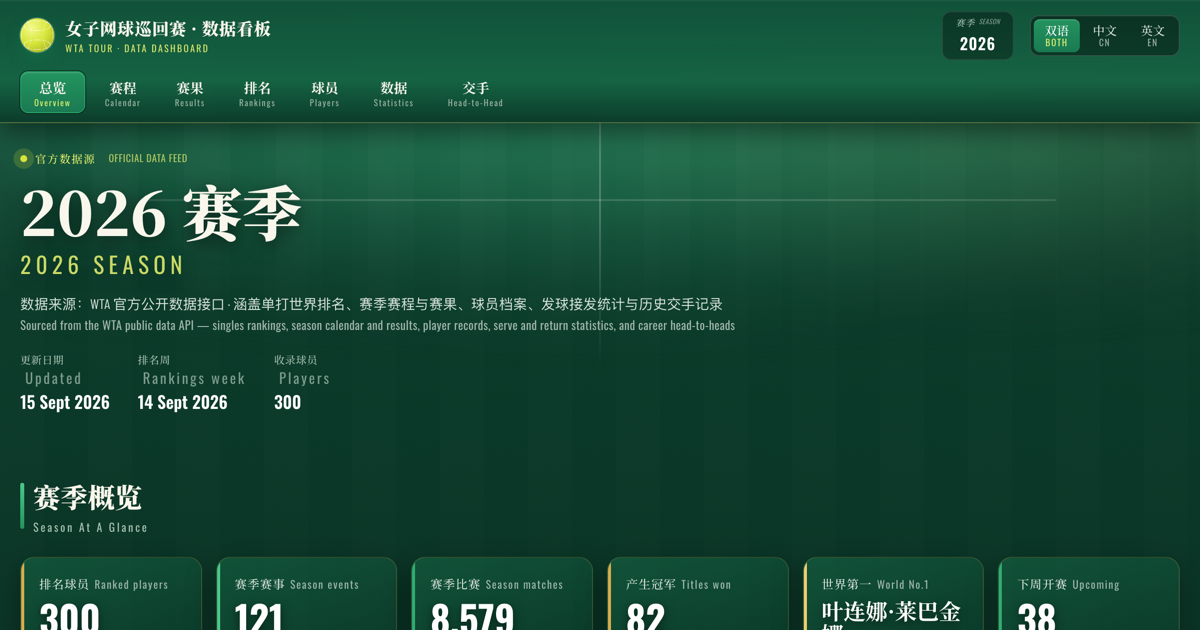
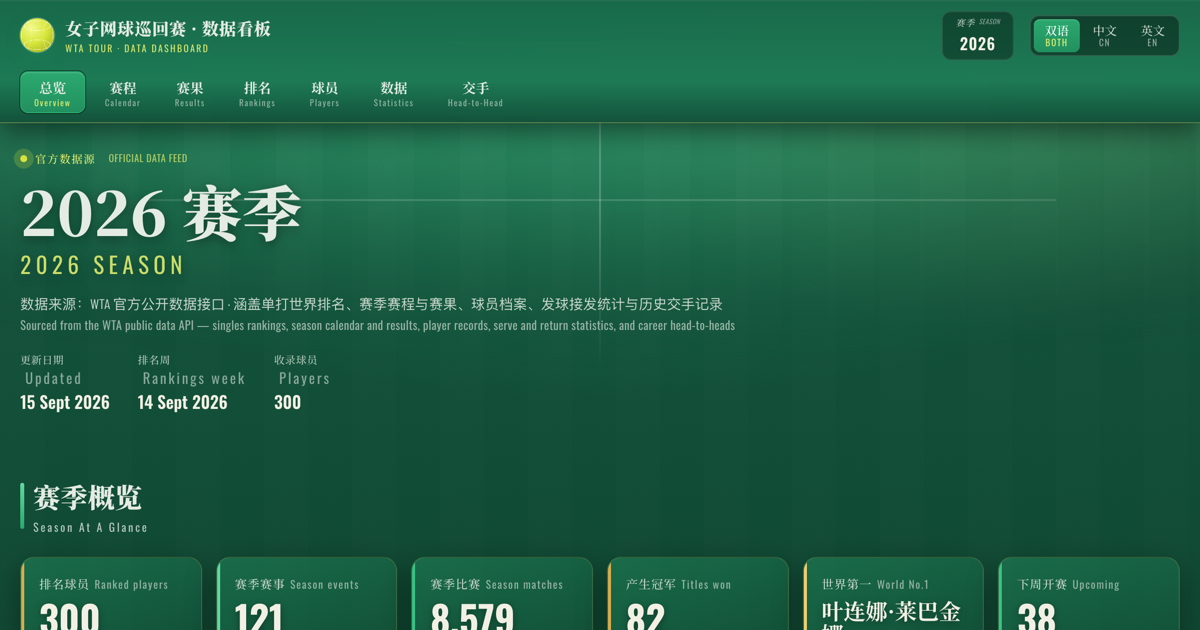
style: hold text below pure white to remove glare
Brightening the ground left the text at L*99 and, in several places, pure #fff —
on a mid-tone green that reads as glare, which is exactly the halation effect
that makes light-on-dark text tiring.

Text now sits in an explicit four-step hierarchy, all of it kept below pure white:

  emphasis numerals  L*95  #f2f0e4
  body               L*92  #e4ebe2
  secondary          L*85  #ccd9cd
  muted meta         L*80  #b6cbbd

Eighteen declarations that used bare #fff for text — KPI and stat values, table
figures, comparison numbers, modal tiles, the season chip, hero meta, footer
values — now use the emphasis tone. The remaining #fff uses are button-filled
states where white is the correct on-colour, plus one hover.

Text shadows were also softened, since a heavy shadow behind near-white text adds
to the glow.

Contrast was re-checked after softening and every pair still clears WCAG AA,
between 5.42:1 and 12:1; the muted tone was lifted slightly so the thinnest case
keeps a comfortable margin rather than sitting at 4.8:1.

diff --git a/docs/assets/css/style.css b/docs/assets/css/style.css
@@ -58,9 +58,12 @@
   --ball-400:#eaf470;
 
   /* 中性：奶油白（温网米白），提亮后同步上调次要文字，保持层级 */
-  --ivory:#fdfbf4;
-  --ivory-dim:#e8f1ea;
-  --ivory-mute:#bcd3c4;
+  /* 文字亮度刻意压在纯白之下：纯白在深绿底上会产生眩光（halation），长时间阅读刺眼。
+     层级：强调数字 95 / 正文 89 / 次要 80 / 弱化 71。 */
+  --ivory-hi:#f2f0e4;
+  --ivory:#e4ebe2;
+  --ivory-dim:#ccd9cd;
+  --ivory-mute:#b6cbbd;
   --line-white:rgba(255,255,255,.9);
 
   --radius:14px;
@@ -175,7 +178,7 @@ html[data-lang="en"] .en{display:inline !important;margin-left:0;font-size:1em;o
 .season-label{font-size:9px;letter-spacing:.14em;color:var(--ivory-mute);
   display:flex;gap:4px;font-family:var(--font-en)}
 .season-label .cn{font-family:var(--font-cn);letter-spacing:.06em}
-.season-value{font-family:var(--font-en);font-size:16px;font-weight:600;color:#fff;letter-spacing:.04em}
+.season-value{font-family:var(--font-en);font-size:16px;font-weight:600;color:var(--ivory-hi);letter-spacing:.04em}
 
 .nav-toggle{display:none;flex-direction:column;gap:4px;padding:8px 9px;border-radius:8px;
   border:1px solid rgba(255,255,255,.14);background:rgba(0,0,0,.3)}
@@ -244,7 +247,7 @@ main{padding-top:var(--header-h);position:relative;z-index:1;min-height:60vh}
   box-shadow:0 0 0 0 rgba(216,230,60,.75);animation:pulse 1.9s infinite;flex:0 0 auto}
 @keyframes pulse{70%{box-shadow:0 0 0 9px rgba(216,230,60,0)}100%{box-shadow:0 0 0 0 rgba(216,230,60,0)}}
 .hero-title{font-family:var(--font-cn);font-weight:900;font-size:clamp(32px,5.4vw,60px);
-  line-height:1.06;margin-bottom:14px;text-shadow:0 5px 18px rgba(0,0,0,.6)}
+  line-height:1.06;margin-bottom:14px;text-shadow:0 3px 12px rgba(0,0,0,.4)}
 .hero-title .cn{display:block}
 .hero-title .en{display:block;font-family:var(--font-en);font-size:.38em;letter-spacing:.2em;
   color:var(--ball-400);opacity:.85;margin-top:8px}
@@ -256,7 +259,7 @@ main{padding-top:var(--header-h);position:relative;z-index:1;min-height:60vh}
 .hero-meta i{font-style:normal;font-size:10.5px;letter-spacing:.14em;color:var(--ivory-mute);
   font-family:var(--font-en)}
 .hero-meta i.cn{font-family:var(--font-cn);letter-spacing:.04em}
-.hero-meta b{font-family:var(--font-en);font-size:17px;font-weight:600;color:#fff}
+.hero-meta b{font-family:var(--font-en);font-size:17px;font-weight:600;color:var(--ivory-hi)}
 
 /* ══════════════════════════════════════════════════════ KPI */
 .kpi-grid{display:grid;grid-template-columns:repeat(auto-fit,minmax(172px,1fr));
@@ -271,7 +274,7 @@ main{padding-top:var(--header-h);position:relative;z-index:1;min-height:60vh}
 .kpi-label .cn{font-family:var(--font-cn);letter-spacing:.05em}
 .kpi-label .en{font-family:var(--font-en);letter-spacing:.1em;opacity:.7}
 .kpi-value{font-family:var(--font-en);font-weight:700;font-size:38px;line-height:1.05;
-  color:#fff;margin-top:6px;text-shadow:0 3px 10px rgba(0,0,0,.5)}
+  color:var(--ivory-hi);margin-top:6px;text-shadow:0 2px 8px rgba(0,0,0,.34)}
 .kpi-sub{font-size:11.5px;color:var(--ivory-mute);margin-top:5px;
   font-family:var(--font-ui);display:flex;flex-wrap:wrap;align-items:baseline}
 .kpi-sub .cn{font-family:var(--font-cn)}
@@ -290,7 +293,7 @@ main{padding-top:var(--header-h);position:relative;z-index:1;min-height:60vh}
 .panel-more{font-size:12px;color:var(--ball-400);font-family:var(--font-ui);
   letter-spacing:.03em;transition:color .16s;display:inline-flex;gap:4px;align-items:baseline}
 .panel-more .cn{font-family:var(--font-cn)}
-.panel-more:hover{color:#fff}
+.panel-more:hover{color:var(--ivory-hi)}
 
 .two-col{display:grid;grid-template-columns:1fr 1fr;gap:22px}
 .two-col.tight{gap:16px;padding:16px 18px}
@@ -304,7 +307,7 @@ main{padding-top:var(--header-h);position:relative;z-index:1;min-height:60vh}
   transition:border-color .16s,transform .16s;cursor:pointer}
 .champ-card:hover{border-color:rgba(42,176,114,.5);transform:translateY(-2px)}
 /* 冠军名用金色：荣誉色只落在姓名上，不外溢到赛事与日期 */
-.champ-card .bi .bi-zh,.champ-card .bi .cn{color:var(--gold-300)}
+.champ-card .bi .bi-zh,.champ-card .bi .cn{color:var(--gold-400)}
 .champ-top{display:flex;align-items:center;gap:8px}
 .champ-avatar{width:32px;height:32px;border-radius:50%;object-fit:cover;flex:0 0 auto;
   background:var(--court-600);border:1.5px solid rgba(255,255,255,.22)}
@@ -325,7 +328,7 @@ main{padding-top:var(--header-h);position:relative;z-index:1;min-height:60vh}
 .rr-main{min-width:0;display:flex;flex-direction:column;gap:2px}
 .rr-players{display:flex;align-items:center;gap:6px;font-family:var(--font-cn);font-size:13px;
   min-width:0;flex-wrap:wrap}
-.rr-w{font-weight:700;color:#fff}
+.rr-w{font-weight:700;color:var(--ivory-hi)}
 .rr-l{color:var(--ivory-mute)}
 .rr-players .en{font-family:var(--font-en);font-size:9.5px;opacity:.55;margin:0}
 .rr-ev{font-size:11px;color:var(--ivory-mute);font-family:var(--font-cn);
@@ -345,7 +348,7 @@ main{padding-top:var(--header-h);position:relative;z-index:1;min-height:60vh}
 .mini-row .n{display:flex;align-items:baseline;gap:6px;min-width:0}
 .mini-row .n a{overflow:hidden;text-overflow:ellipsis;white-space:nowrap}
 .mini-row .n a:hover{color:var(--ball-400)}
-.mini-row .v{font-family:var(--font-en);font-weight:600;color:#fff}
+.mini-row .v{font-family:var(--font-en);font-weight:600;color:var(--ivory-hi)}
 .mini-bar{height:3px;border-radius:3px;background:rgba(255,255,255,.09);margin-top:4px;overflow:hidden}
 .mini-bar i{display:block;height:100%;border-radius:3px;
   background:linear-gradient(90deg,var(--grass-500),var(--ball-500))}
@@ -361,7 +364,7 @@ main{padding-top:var(--header-h);position:relative;z-index:1;min-height:60vh}
   border-bottom:1px solid rgba(255,255,255,.04)}
 .career-row .i{font-family:var(--font-en);color:var(--ivory-mute);font-size:11px;text-align:right}
 .career-row .n a:hover{color:var(--ball-400)}
-.career-row .v{font-family:var(--font-en);font-weight:600;color:#fff}
+.career-row .v{font-family:var(--font-en);font-weight:600;color:var(--ivory-hi)}
 
 /* ══════════════════════════════════════════════════════ 筛选控件 */
 .filter-bar{display:flex;gap:12px;flex-wrap:wrap;align-items:center;margin-bottom:16px}
@@ -442,7 +445,7 @@ main{padding-top:var(--header-h);position:relative;z-index:1;min-height:60vh}
   margin-top:20px}
 .stat-strip .s{padding:13px 15px;border-radius:var(--radius-sm);background:rgba(0,0,0,.28);
   border:1px solid rgba(255,255,255,.08);display:flex;flex-direction:column;gap:3px}
-.stat-strip .s b{font-family:var(--font-en);font-size:23px;font-weight:700;color:#fff}
+.stat-strip .s b{font-family:var(--font-en);font-size:23px;font-weight:700;color:var(--ivory-hi)}
 .stat-strip .s span{font-size:11px;color:var(--ivory-mute);font-family:var(--font-ui);
   display:flex;flex-wrap:wrap;align-items:baseline}
 .stat-strip .s span .cn{font-family:var(--font-cn)}
@@ -457,7 +460,7 @@ main{padding-top:var(--header-h);position:relative;z-index:1;min-height:60vh}
 .result-players{display:flex;align-items:center;gap:8px;flex-wrap:wrap;font-family:var(--font-cn);font-size:13.5px}
 .result-players img{width:26px;height:26px;border-radius:50%;object-fit:cover;flex:0 0 auto;
   background:var(--court-600);border:1px solid rgba(255,255,255,.16)}
-.result-players .w{font-weight:700;color:#fff}
+.result-players .w{font-weight:700;color:var(--ivory-hi)}
 .result-players .l{color:var(--ivory-mute)}
 .result-players .d{color:var(--ivory-mute);font-size:11px}
 .result-players .rank{font-family:var(--font-en);font-size:10px;color:var(--ivory-mute)}
@@ -569,7 +572,7 @@ main{padding-top:var(--header-h);position:relative;z-index:1;min-height:60vh}
 .pc-stats{display:grid;grid-template-columns:repeat(3,1fr);gap:1px;border-radius:8px;
   overflow:hidden;background:rgba(255,255,255,.08)}
 .pc-stat{background:rgba(0,0,0,.3);padding:7px 8px;text-align:center}
-.pc-stat b{display:block;font-family:var(--font-en);font-size:15px;font-weight:700;color:#fff}
+.pc-stat b{display:block;font-family:var(--font-en);font-size:15px;font-weight:700;color:var(--ivory-hi)}
 .pc-stat span{display:block;font-size:9.5px;color:var(--ivory-mute);font-family:var(--font-ui);
   margin-top:2px;letter-spacing:.04em}
 .pc-form{display:flex;gap:3px;margin-top:10px;flex-wrap:wrap}
@@ -609,7 +612,7 @@ main{padding-top:var(--header-h);position:relative;z-index:1;min-height:60vh}
 .lb-row .n b{font-weight:700;overflow:hidden;text-overflow:ellipsis;white-space:nowrap;font-size:12.5px}
 .lb-row .n .en{font-family:var(--font-en);font-size:9.5px;opacity:.55;margin:0;
   overflow:hidden;text-overflow:ellipsis;white-space:nowrap}
-.lb-row .v{font-family:var(--font-en);font-weight:700;color:#fff;font-size:13px}
+.lb-row .v{font-family:var(--font-en);font-weight:700;color:var(--ivory-hi);font-size:13px}
 .lb-bar{grid-column:1/-1;height:3px;border-radius:3px;background:rgba(255,255,255,.08);
   overflow:hidden;margin-top:-2px}
 .lb-bar i{display:block;height:100%;background:linear-gradient(90deg,var(--clay-500),var(--ball-500))}
@@ -661,7 +664,7 @@ main{padding-top:var(--header-h);position:relative;z-index:1;min-height:60vh}
 .h2h-side .meta{font-size:11px;color:var(--ivory-mute);font-family:var(--font-cn)}
 .h2h-score{display:flex;flex-direction:column;align-items:center;gap:2px}
 .h2h-score .ws{font-family:var(--font-en);font-weight:700;font-size:46px;line-height:1;
-  color:#fff;text-shadow:0 2px 8px rgba(0,0,0,.5)}
+  color:var(--ivory-hi);text-shadow:0 2px 8px rgba(0,0,0,.34)}
 .h2h-score .sep{font-family:var(--font-en);font-size:20px;color:var(--ball-400);opacity:.8}
 .h2h-score small{font-family:var(--font-ui);font-size:11px;letter-spacing:.06em;color:var(--ivory-mute);margin-top:5px}
 .h2h-score small .cn{font-family:var(--font-cn)}
@@ -690,11 +693,11 @@ main{padding-top:var(--header-h);position:relative;z-index:1;min-height:60vh}
 .h2h-compare{margin-top:18px}
 .cmp-row{display:grid;grid-template-columns:1fr 150px 1fr;gap:12px;align-items:center;
   padding:7px 0;border-bottom:1px solid rgba(255,255,255,.05);font-size:12.5px}
-.cmp-row .a{text-align:right;font-family:var(--font-en);font-weight:700;color:#fff}
+.cmp-row .a{text-align:right;font-family:var(--font-en);font-weight:700;color:var(--ivory-hi)}
 .cmp-row .k{text-align:center;font-size:10.5px;letter-spacing:.06em;color:var(--ivory-mute);
   font-family:var(--font-ui)}
 .cmp-row .k .cn{font-family:var(--font-cn);letter-spacing:.03em}
-.cmp-row .b{text-align:left;font-family:var(--font-en);font-weight:700;color:#fff}
+.cmp-row .b{text-align:left;font-family:var(--font-en);font-weight:700;color:var(--ivory-hi)}
 .cmp-row .win{color:var(--ball-400)}
 
 /* ══════════════════════════════════════════════════════ 弹窗 */
@@ -722,7 +725,7 @@ main{padding-top:var(--header-h);position:relative;z-index:1;min-height:60vh}
 .mp-tiles{display:grid;grid-template-columns:repeat(auto-fit,minmax(104px,1fr));gap:1px;
   border-radius:9px;overflow:hidden;background:rgba(255,255,255,.09);margin-bottom:18px}
 .mp-tile{background:rgba(0,0,0,.3);padding:11px 12px;text-align:center}
-.mp-tile b{display:block;font-family:var(--font-en);font-size:18px;font-weight:700;color:#fff}
+.mp-tile b{display:block;font-family:var(--font-en);font-size:18px;font-weight:700;color:var(--ivory-hi)}
 .mp-tile span{display:block;font-size:10.5px;color:var(--ivory-mute);font-family:var(--font-ui);margin-top:3px}
 .mp-tile span .cn{font-family:var(--font-cn)}
 .mp-sec{margin-top:18px}
@@ -752,7 +755,7 @@ main{padding-top:var(--header-h);position:relative;z-index:1;min-height:60vh}
   margin-bottom:18px}
 .footer-row .f{padding:10px 12px;border-radius:9px;background:rgba(0,0,0,.26);
   border:1px solid rgba(255,255,255,.07)}
-.footer-row .f b{display:block;font-family:var(--font-en);font-size:18px;font-weight:700;color:#fff}
+.footer-row .f b{display:block;font-family:var(--font-en);font-size:18px;font-weight:700;color:var(--ivory-hi)}
 .footer-row .f span{font-size:10.5px;color:var(--ivory-mute);font-family:var(--font-ui);
   display:flex;flex-wrap:wrap;align-items:baseline}
 .footer-row .f span .cn{font-family:var(--font-cn)}
@@ -899,7 +902,7 @@ main{padding-top:var(--header-h);position:relative;z-index:1;min-height:60vh}
 .ev-nm .en{font-family:var(--font-en);font-size:9.5px;opacity:.55;margin:0;
   overflow:hidden;text-overflow:ellipsis;white-space:nowrap}
 .ev-side.win .ev-nm .cn{font-weight:900;color:var(--gold-400)}
-.ev-side.win .ev-nm .en{color:var(--gold-500);opacity:.9}
+.ev-side.win .ev-nm .en{color:var(--gold-500);opacity:.88}
 .ev-side:not(.win) .ev-nm{color:var(--ivory-mute)}
 /* 胜者：只有金色姓名 + 极淡金色底纹；奖杯标记专属冠军，不出现在单场赛果里 */
 .ev-side.win{background:linear-gradient(90deg,rgba(217,172,78,.12),transparent 76%);

diff --git a/site-v2/assets/css/style.css b/site-v2/assets/css/style.css
@@ -58,9 +58,12 @@
   --ball-400:#eaf470;
 
   /* 中性：奶油白（温网米白），提亮后同步上调次要文字，保持层级 */
-  --ivory:#fdfbf4;
-  --ivory-dim:#e8f1ea;
-  --ivory-mute:#bcd3c4;
+  /* 文字亮度刻意压在纯白之下：纯白在深绿底上会产生眩光（halation），长时间阅读刺眼。
+     层级：强调数字 95 / 正文 89 / 次要 80 / 弱化 71。 */
+  --ivory-hi:#f2f0e4;
+  --ivory:#e4ebe2;
+  --ivory-dim:#ccd9cd;
+  --ivory-mute:#b6cbbd;
   --line-white:rgba(255,255,255,.9);
 
   --radius:14px;
@@ -175,7 +178,7 @@ html[data-lang="en"] .en{display:inline !important;margin-left:0;font-size:1em;o
 .season-label{font-size:9px;letter-spacing:.14em;color:var(--ivory-mute);
   display:flex;gap:4px;font-family:var(--font-en)}
 .season-label .cn{font-family:var(--font-cn);letter-spacing:.06em}
-.season-value{font-family:var(--font-en);font-size:16px;font-weight:600;color:#fff;letter-spacing:.04em}
+.season-value{font-family:var(--font-en);font-size:16px;font-weight:600;color:var(--ivory-hi);letter-spacing:.04em}
 
 .nav-toggle{display:none;flex-direction:column;gap:4px;padding:8px 9px;border-radius:8px;
   border:1px solid rgba(255,255,255,.14);background:rgba(0,0,0,.3)}
@@ -244,7 +247,7 @@ main{padding-top:var(--header-h);position:relative;z-index:1;min-height:60vh}
   box-shadow:0 0 0 0 rgba(216,230,60,.75);animation:pulse 1.9s infinite;flex:0 0 auto}
 @keyframes pulse{70%{box-shadow:0 0 0 9px rgba(216,230,60,0)}100%{box-shadow:0 0 0 0 rgba(216,230,60,0)}}
 .hero-title{font-family:var(--font-cn);font-weight:900;font-size:clamp(32px,5.4vw,60px);
-  line-height:1.06;margin-bottom:14px;text-shadow:0 5px 18px rgba(0,0,0,.6)}
+  line-height:1.06;margin-bottom:14px;text-shadow:0 3px 12px rgba(0,0,0,.4)}
 .hero-title .cn{display:block}
 .hero-title .en{display:block;font-family:var(--font-en);font-size:.38em;letter-spacing:.2em;
   color:var(--ball-400);opacity:.85;margin-top:8px}
@@ -256,7 +259,7 @@ main{padding-top:var(--header-h);position:relative;z-index:1;min-height:60vh}
 .hero-meta i{font-style:normal;font-size:10.5px;letter-spacing:.14em;color:var(--ivory-mute);
   font-family:var(--font-en)}
 .hero-meta i.cn{font-family:var(--font-cn);letter-spacing:.04em}
-.hero-meta b{font-family:var(--font-en);font-size:17px;font-weight:600;color:#fff}
+.hero-meta b{font-family:var(--font-en);font-size:17px;font-weight:600;color:var(--ivory-hi)}
 
 /* ══════════════════════════════════════════════════════ KPI */
 .kpi-grid{display:grid;grid-template-columns:repeat(auto-fit,minmax(172px,1fr));
@@ -271,7 +274,7 @@ main{padding-top:var(--header-h);position:relative;z-index:1;min-height:60vh}
 .kpi-label .cn{font-family:var(--font-cn);letter-spacing:.05em}
 .kpi-label .en{font-family:var(--font-en);letter-spacing:.1em;opacity:.7}
 .kpi-value{font-family:var(--font-en);font-weight:700;font-size:38px;line-height:1.05;
-  color:#fff;margin-top:6px;text-shadow:0 3px 10px rgba(0,0,0,.5)}
+  color:var(--ivory-hi);margin-top:6px;text-shadow:0 2px 8px rgba(0,0,0,.34)}
 .kpi-sub{font-size:11.5px;color:var(--ivory-mute);margin-top:5px;
   font-family:var(--font-ui);display:flex;flex-wrap:wrap;align-items:baseline}
 .kpi-sub .cn{font-family:var(--font-cn)}
@@ -290,7 +293,7 @@ main{padding-top:var(--header-h);position:relative;z-index:1;min-height:60vh}
 .panel-more{font-size:12px;color:var(--ball-400);font-family:var(--font-ui);
   letter-spacing:.03em;transition:color .16s;display:inline-flex;gap:4px;align-items:baseline}
 .panel-more .cn{font-family:var(--font-cn)}
-.panel-more:hover{color:#fff}
+.panel-more:hover{color:var(--ivory-hi)}
 
 .two-col{display:grid;grid-template-columns:1fr 1fr;gap:22px}
 .two-col.tight{gap:16px;padding:16px 18px}
@@ -304,7 +307,7 @@ main{padding-top:var(--header-h);position:relative;z-index:1;min-height:60vh}
   transition:border-color .16s,transform .16s;cursor:pointer}
 .champ-card:hover{border-color:rgba(42,176,114,.5);transform:translateY(-2px)}
 /* 冠军名用金色：荣誉色只落在姓名上，不外溢到赛事与日期 */
-.champ-card .bi .bi-zh,.champ-card .bi .cn{color:var(--gold-300)}
+.champ-card .bi .bi-zh,.champ-card .bi .cn{color:var(--gold-400)}
 .champ-top{display:flex;align-items:center;gap:8px}
 .champ-avatar{width:32px;height:32px;border-radius:50%;object-fit:cover;flex:0 0 auto;
   background:var(--court-600);border:1.5px solid rgba(255,255,255,.22)}
@@ -325,7 +328,7 @@ main{padding-top:var(--header-h);position:relative;z-index:1;min-height:60vh}
 .rr-main{min-width:0;display:flex;flex-direction:column;gap:2px}
 .rr-players{display:flex;align-items:center;gap:6px;font-family:var(--font-cn);font-size:13px;
   min-width:0;flex-wrap:wrap}
-.rr-w{font-weight:700;color:#fff}
+.rr-w{font-weight:700;color:var(--ivory-hi)}
 .rr-l{color:var(--ivory-mute)}
 .rr-players .en{font-family:var(--font-en);font-size:9.5px;opacity:.55;margin:0}
 .rr-ev{font-size:11px;color:var(--ivory-mute);font-family:var(--font-cn);
@@ -345,7 +348,7 @@ main{padding-top:var(--header-h);position:relative;z-index:1;min-height:60vh}
 .mini-row .n{display:flex;align-items:baseline;gap:6px;min-width:0}
 .mini-row .n a{overflow:hidden;text-overflow:ellipsis;white-space:nowrap}
 .mini-row .n a:hover{color:var(--ball-400)}
-.mini-row .v{font-family:var(--font-en);font-weight:600;color:#fff}
+.mini-row .v{font-family:var(--font-en);font-weight:600;color:var(--ivory-hi)}
 .mini-bar{height:3px;border-radius:3px;background:rgba(255,255,255,.09);margin-top:4px;overflow:hidden}
 .mini-bar i{display:block;height:100%;border-radius:3px;
   background:linear-gradient(90deg,var(--grass-500),var(--ball-500))}
@@ -361,7 +364,7 @@ main{padding-top:var(--header-h);position:relative;z-index:1;min-height:60vh}
   border-bottom:1px solid rgba(255,255,255,.04)}
 .career-row .i{font-family:var(--font-en);color:var(--ivory-mute);font-size:11px;text-align:right}
 .career-row .n a:hover{color:var(--ball-400)}
-.career-row .v{font-family:var(--font-en);font-weight:600;color:#fff}
+.career-row .v{font-family:var(--font-en);font-weight:600;color:var(--ivory-hi)}
 
 /* ══════════════════════════════════════════════════════ 筛选控件 */
 .filter-bar{display:flex;gap:12px;flex-wrap:wrap;align-items:center;margin-bottom:16px}
@@ -442,7 +445,7 @@ main{padding-top:var(--header-h);position:relative;z-index:1;min-height:60vh}
   margin-top:20px}
 .stat-strip .s{padding:13px 15px;border-radius:var(--radius-sm);background:rgba(0,0,0,.28);
   border:1px solid rgba(255,255,255,.08);display:flex;flex-direction:column;gap:3px}
-.stat-strip .s b{font-family:var(--font-en);font-size:23px;font-weight:700;color:#fff}
+.stat-strip .s b{font-family:var(--font-en);font-size:23px;font-weight:700;color:var(--ivory-hi)}
 .stat-strip .s span{font-size:11px;color:var(--ivory-mute);font-family:var(--font-ui);
   display:flex;flex-wrap:wrap;align-items:baseline}
 .stat-strip .s span .cn{font-family:var(--font-cn)}
@@ -457,7 +460,7 @@ main{padding-top:var(--header-h);position:relative;z-index:1;min-height:60vh}
 .result-players{display:flex;align-items:center;gap:8px;flex-wrap:wrap;font-family:var(--font-cn);font-size:13.5px}
 .result-players img{width:26px;height:26px;border-radius:50%;object-fit:cover;flex:0 0 auto;
   background:var(--court-600);border:1px solid rgba(255,255,255,.16)}
-.result-players .w{font-weight:700;color:#fff}
+.result-players .w{font-weight:700;color:var(--ivory-hi)}
 .result-players .l{color:var(--ivory-mute)}
 .result-players .d{color:var(--ivory-mute);font-size:11px}
 .result-players .rank{font-family:var(--font-en);font-size:10px;color:var(--ivory-mute)}
@@ -569,7 +572,7 @@ main{padding-top:var(--header-h);position:relative;z-index:1;min-height:60vh}
 .pc-stats{display:grid;grid-template-columns:repeat(3,1fr);gap:1px;border-radius:8px;
   overflow:hidden;background:rgba(255,255,255,.08)}
 .pc-stat{background:rgba(0,0,0,.3);padding:7px 8px;text-align:center}
-.pc-stat b{display:block;font-family:var(--font-en);font-size:15px;font-weight:700;color:#fff}
+.pc-stat b{display:block;font-family:var(--font-en);font-size:15px;font-weight:700;color:var(--ivory-hi)}
 .pc-stat span{display:block;font-size:9.5px;color:var(--ivory-mute);font-family:var(--font-ui);
   margin-top:2px;letter-spacing:.04em}
 .pc-form{display:flex;gap:3px;margin-top:10px;flex-wrap:wrap}
@@ -609,7 +612,7 @@ main{padding-top:var(--header-h);position:relative;z-index:1;min-height:60vh}
 .lb-row .n b{font-weight:700;overflow:hidden;text-overflow:ellipsis;white-space:nowrap;font-size:12.5px}
 .lb-row .n .en{font-family:var(--font-en);font-size:9.5px;opacity:.55;margin:0;
   overflow:hidden;text-overflow:ellipsis;white-space:nowrap}
-.lb-row .v{font-family:var(--font-en);font-weight:700;color:#fff;font-size:13px}
+.lb-row .v{font-family:var(--font-en);font-weight:700;color:var(--ivory-hi);font-size:13px}
 .lb-bar{grid-column:1/-1;height:3px;border-radius:3px;background:rgba(255,255,255,.08);
   overflow:hidden;margin-top:-2px}
 .lb-bar i{display:block;height:100%;background:linear-gradient(90deg,var(--clay-500),var(--ball-500))}
@@ -661,7 +664,7 @@ main{padding-top:var(--header-h);position:relative;z-index:1;min-height:60vh}
 .h2h-side .meta{font-size:11px;color:var(--ivory-mute);font-family:var(--font-cn)}
 .h2h-score{display:flex;flex-direction:column;align-items:center;gap:2px}
 .h2h-score .ws{font-family:var(--font-en);font-weight:700;font-size:46px;line-height:1;
-  color:#fff;text-shadow:0 2px 8px rgba(0,0,0,.5)}
+  color:var(--ivory-hi);text-shadow:0 2px 8px rgba(0,0,0,.34)}
 .h2h-score .sep{font-family:var(--font-en);font-size:20px;color:var(--ball-400);opacity:.8}
 .h2h-score small{font-family:var(--font-ui);font-size:11px;letter-spacing:.06em;color:var(--ivory-mute);margin-top:5px}
 .h2h-score small .cn{font-family:var(--font-cn)}
@@ -690,11 +693,11 @@ main{padding-top:var(--header-h);position:relative;z-index:1;min-height:60vh}
 .h2h-compare{margin-top:18px}
 .cmp-row{display:grid;grid-template-columns:1fr 150px 1fr;gap:12px;align-items:center;
   padding:7px 0;border-bottom:1px solid rgba(255,255,255,.05);font-size:12.5px}
-.cmp-row .a{text-align:right;font-family:var(--font-en);font-weight:700;color:#fff}
+.cmp-row .a{text-align:right;font-family:var(--font-en);font-weight:700;color:var(--ivory-hi)}
 .cmp-row .k{text-align:center;font-size:10.5px;letter-spacing:.06em;color:var(--ivory-mute);
   font-family:var(--font-ui)}
 .cmp-row .k .cn{font-family:var(--font-cn);letter-spacing:.03em}
-.cmp-row .b{text-align:left;font-family:var(--font-en);font-weight:700;color:#fff}
+.cmp-row .b{text-align:left;font-family:var(--font-en);font-weight:700;color:var(--ivory-hi)}
 .cmp-row .win{color:var(--ball-400)}
 
 /* ══════════════════════════════════════════════════════ 弹窗 */
@@ -722,7 +725,7 @@ main{padding-top:var(--header-h);position:relative;z-index:1;min-height:60vh}
 .mp-tiles{display:grid;grid-template-columns:repeat(auto-fit,minmax(104px,1fr));gap:1px;
   border-radius:9px;overflow:hidden;background:rgba(255,255,255,.09);margin-bottom:18px}
 .mp-tile{background:rgba(0,0,0,.3);padding:11px 12px;text-align:center}
-.mp-tile b{display:block;font-family:var(--font-en);font-size:18px;font-weight:700;color:#fff}
+.mp-tile b{display:block;font-family:var(--font-en);font-size:18px;font-weight:700;color:var(--ivory-hi)}
 .mp-tile span{display:block;font-size:10.5px;color:var(--ivory-mute);font-family:var(--font-ui);margin-top:3px}
 .mp-tile span .cn{font-family:var(--font-cn)}
 .mp-sec{margin-top:18px}
@@ -752,7 +755,7 @@ main{padding-top:var(--header-h);position:relative;z-index:1;min-height:60vh}
   margin-bottom:18px}
 .footer-row .f{padding:10px 12px;border-radius:9px;background:rgba(0,0,0,.26);
   border:1px solid rgba(255,255,255,.07)}
-.footer-row .f b{display:block;font-family:var(--font-en);font-size:18px;font-weight:700;color:#fff}
+.footer-row .f b{display:block;font-family:var(--font-en);font-size:18px;font-weight:700;color:var(--ivory-hi)}
 .footer-row .f span{font-size:10.5px;color:var(--ivory-mute);font-family:var(--font-ui);
   display:flex;flex-wrap:wrap;align-items:baseline}
 .footer-row .f span .cn{font-family:var(--font-cn)}
@@ -899,7 +902,7 @@ main{padding-top:var(--header-h);position:relative;z-index:1;min-height:60vh}
 .ev-nm .en{font-family:var(--font-en);font-size:9.5px;opacity:.55;margin:0;
   overflow:hidden;text-overflow:ellipsis;white-space:nowrap}
 .ev-side.win .ev-nm .cn{font-weight:900;color:var(--gold-400)}
-.ev-side.win .ev-nm .en{color:var(--gold-500);opacity:.9}
+.ev-side.win .ev-nm .en{color:var(--gold-500);opacity:.88}
 .ev-side:not(.win) .ev-nm{color:var(--ivory-mute)}
 /* 胜者：只有金色姓名 + 极淡金色底纹；奖杯标记专属冠军，不出现在单场赛果里 */
 .ev-side.win{background:linear-gradient(90deg,rgba(217,172,78,.12),transparent 76%);

diff --git a/docs/index.html b/docs/index.html
@@ -29,7 +29,7 @@
 <link rel="preconnect" href="https://fonts.googleapis.com">
 <link rel="preconnect" href="https://fonts.gstatic.com" crossorigin>
 <link href="https://fonts.googleapis.com/css2?family=Noto+Serif+SC:wght@500;700;900&family=Oswald:wght@400;500;600;700&family=Barlow+Condensed:wght@400;500;600;700&display=swap" rel="stylesheet">
-<link rel="stylesheet" href="assets/css/style.css?v=20260915033845">
+<link rel="stylesheet" href="assets/css/style.css?v=20260915051524">
 </head>
 <body>
 
@@ -372,8 +372,8 @@
   </div>
 </footer>
 
-<script src="data/dashboard.js?v=20260915033845"></script>
-<script src="data/h2h.js?v=20260915033845"></script>
-<script src="assets/js/app.js?v=20260915033845"></script>
+<script src="data/dashboard.js?v=20260915051524"></script>
+<script src="data/h2h.js?v=20260915051524"></script>
+<script src="assets/js/app.js?v=20260915051524"></script>
 </body>
 </html>

diff --git a/README.zh-CN.md b/README.zh-CN.md
@@ -36,7 +36,8 @@
   | 法网 | 陶土橙 `#cc4e0e` / `#e38045`、深绿 `#00503c` / `#033629` |
   | 美网 | 蓝 `#2478cc` / `#00288c`、金 `#ffd400` |
 
-  网站以温网场地绿为底（为长时间阅读做了提亮：大面积底色感知明度 L*≈29，页面均值 L*≈37）、奶油白为字，**金色严格只用于荣誉位**——每场胜者、冠军、前三名、
+  网站以温网场地绿为底（为长时间阅读做了提亮：大面积底色感知明度 L*≈29，页面均值 L*≈37），
+  文字刻意压制在纯白之下（正文 L*≈92、强调数字 L*≈95），避免深绿底上的眩光，**金色严格只用于荣誉位**——每场胜者、冠军、前三名、
   大满贯级别标签；**🏆 只出现在真正的冠军位置**（冠军墙、赛程冠军、赛事赛果弹窗顶部），
   不会出现在单场胜者旁。三块场地色仅用于标识场地类型。字体中文用 Noto Serif SC、
   拉丁与数字用 Oswald / Barlow Condensed。抽样对比度 6.6:1 ~ 14.9:1 全部满足 WCAG AA。
